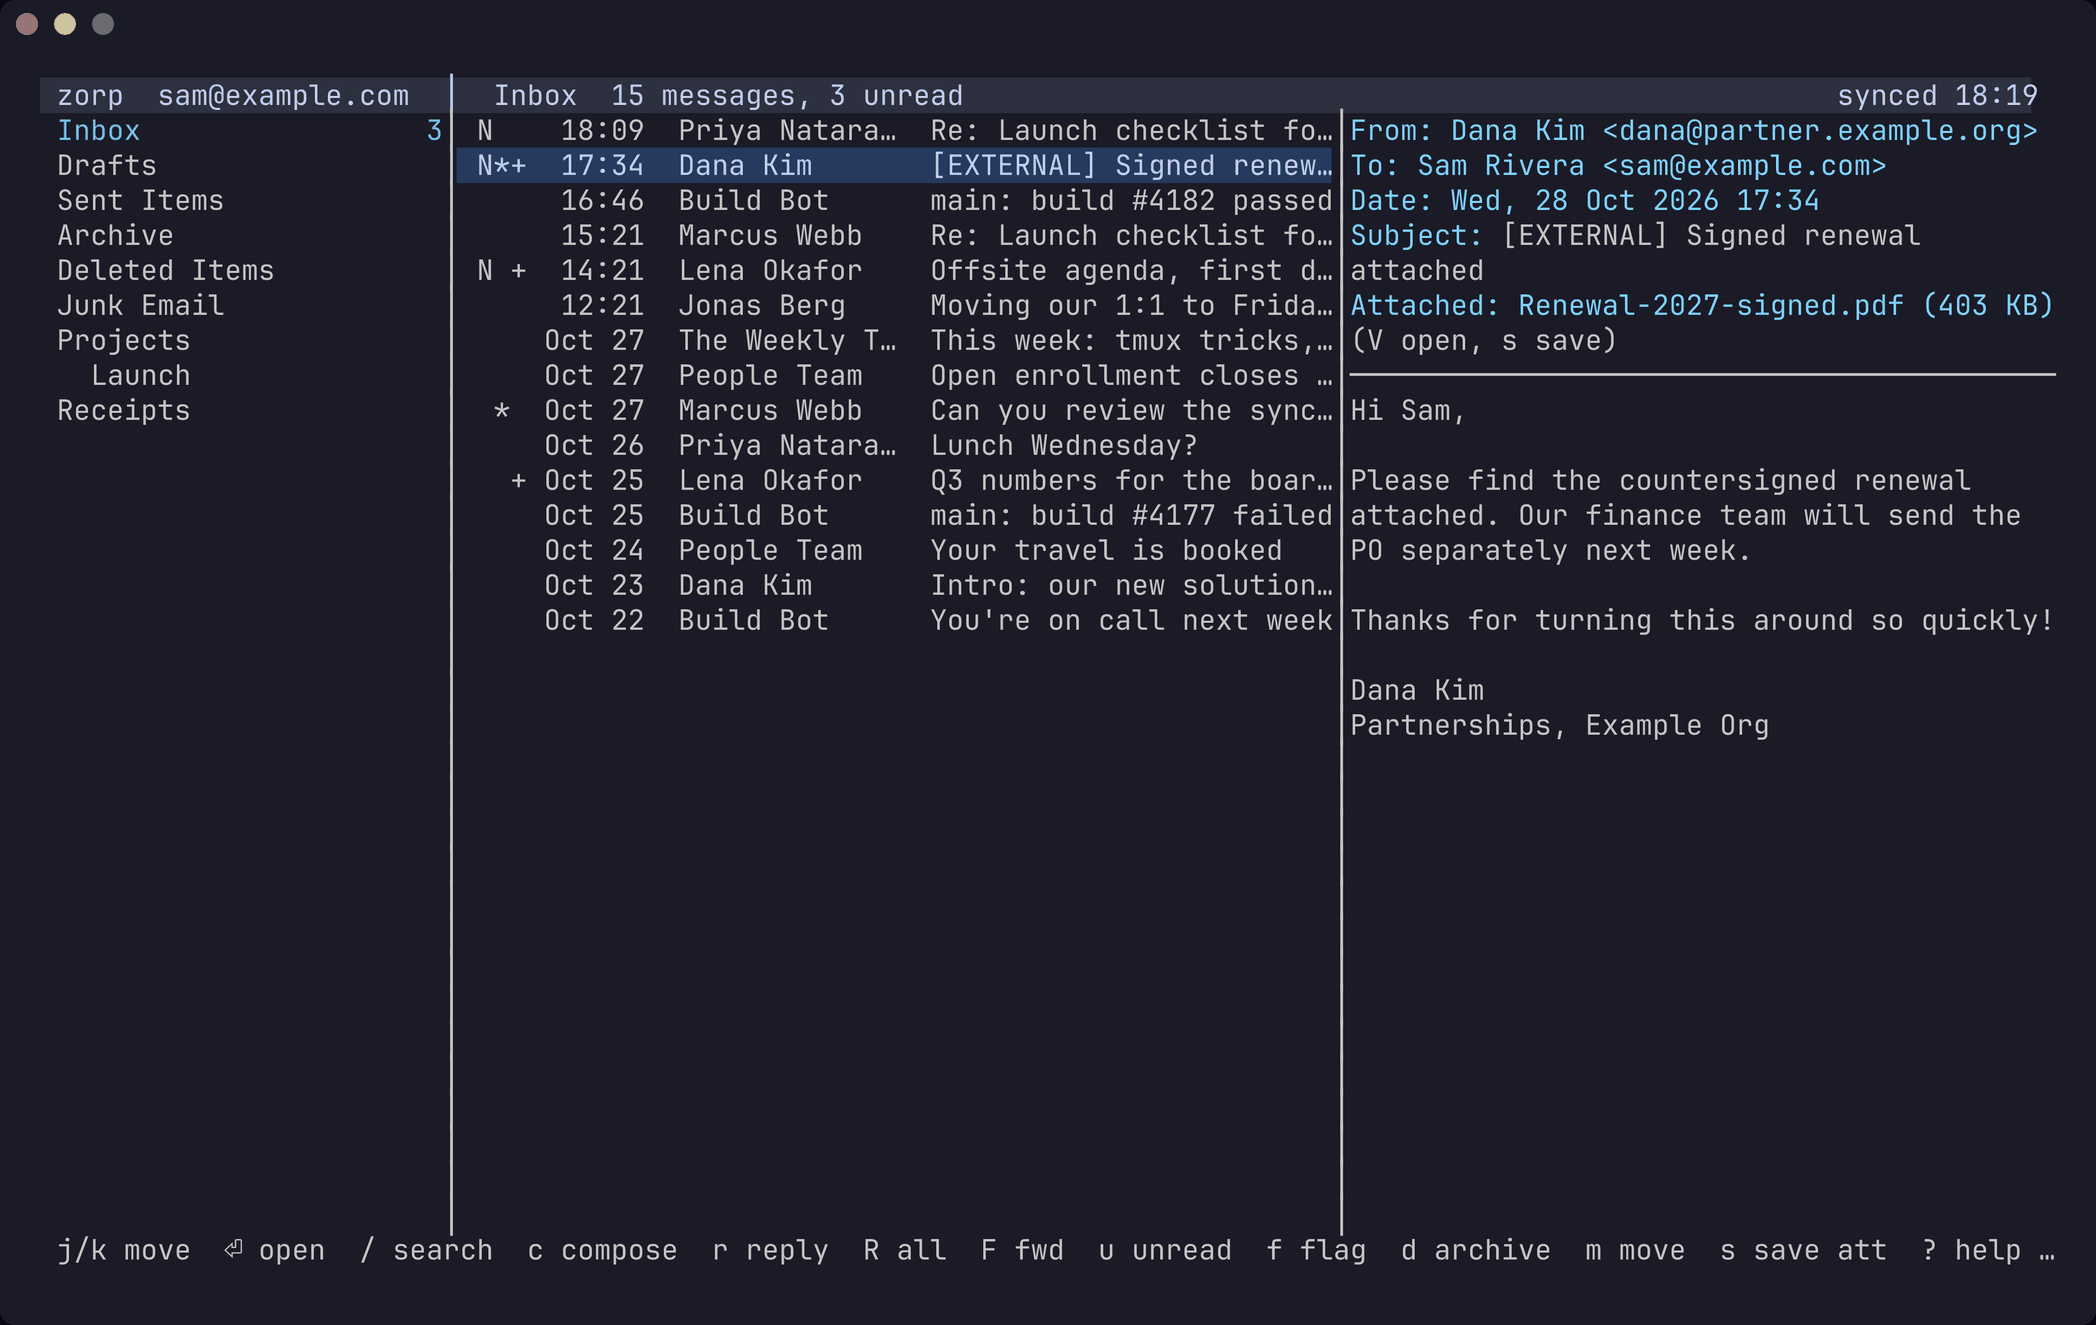
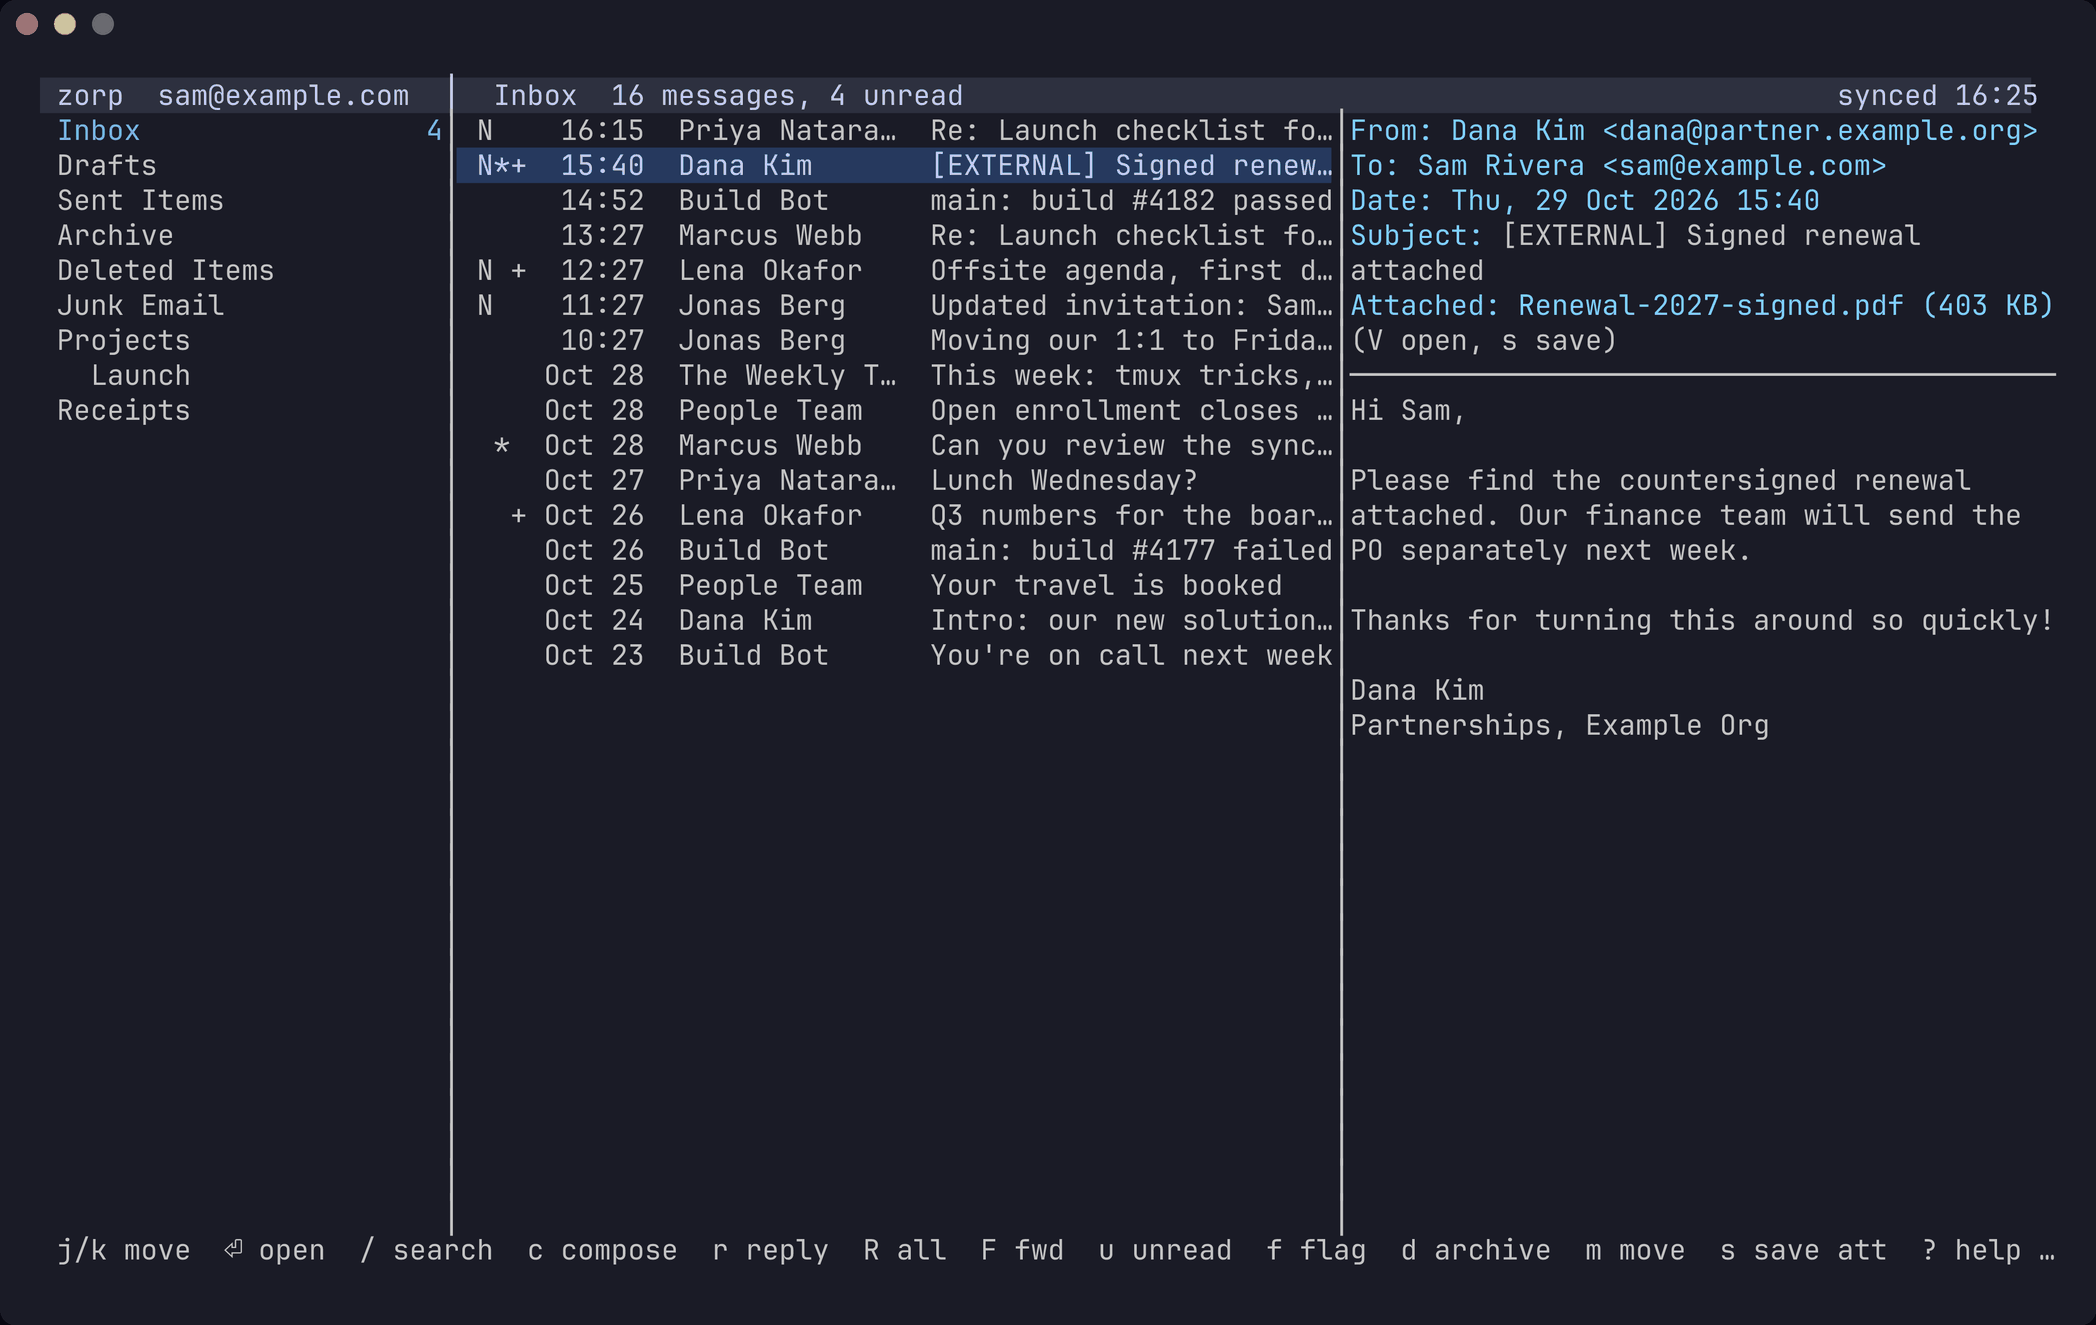
Meeting buttons in the preview: Accept, Tentative, Decline, Join, Remove
With the mouse on, an invite's preview has a row of buttons under its
headers. The answer already given is ticked. Answering in a way that
tells the organizer goes through the comment prompt first, so a stray
click never sends mail. The demo has an invite now, and the README a
screenshot of it.

Claude-Session: https://claude.ai/code/session_011pj7mesgMnUBaZC8MRbrVZ

diff --git a/scripts/demo/main.go b/scripts/demo/main.go
@@ -52,6 +52,8 @@ func main() {
 			return ipc.Status{State: ipc.StateIdle, Account: me, LastSync: started.Unix(), PID: os.Getpid()}, nil
 		case ipc.MethodMutate:
 			return ipc.MutateResult{}, nil
+		case ipc.MethodMeeting:
+			return ipc.MeetingInfo{Found: true, EventID: "e1", Response: "tentativelyAccepted", Organizer: false, JoinURL: "https://teams.example.com/l/meetup-join/1on1"}, nil
 		}
 		return struct{}{}, nil
 	}, slog.Default())
@@ -73,6 +75,7 @@ type msg struct {
 	attach  []store.Attachment
 	html    string
 	text    string
+	meeting *store.Meeting
 }
 
 var (
@@ -86,6 +89,18 @@ var (
 	news   = store.Address{Name: "The Weekly Terminal", Addr: "editor@newsletter.example.net"}
 	cal    = store.Address{Name: "Jonas Berg", Addr: "jonas@example.com"}
 )
+
+// meetingAt puts a meeting on the coming Friday at 10.
+func meetingAt(mt *store.Meeting, now time.Time) *store.Meeting {
+	if mt == nil {
+		return nil
+	}
+	day := now.AddDate(0, 0, (int(time.Friday)-int(now.Weekday())+7)%7)
+	out := *mt
+	out.Start = time.Date(day.Year(), day.Month(), day.Day(), 10, 0, 0, 0, time.Local)
+	out.End = out.Start.Add(30 * time.Minute)
+	return &out
+}
 
 func pdf(name string, size int64) []store.Attachment {
 	return []store.Attachment{{GraphID: name, Name: name, ContentType: "application/pdf", Kind: "file", Size: size}}
@@ -111,6 +126,9 @@ var mail = []msg{
 	{folder: "inbox", conv: "offsite", from: lena, to: []store.Address{sam}, subject: "Offsite agenda, first draft", ago: 4 * time.Hour,
 		attach: []store.Attachment{{GraphID: "a1", Name: "offsite-agenda.docx", ContentType: "application/vnd.openxmlformats-officedocument.wordprocessingml.document", Kind: "file", Size: 88_211}, {GraphID: "a2", Name: "venue-map.png", ContentType: "image/png", Kind: "file", Size: 1_204_551}},
 		html:   `<p>Hey Sam — first pass at the agenda is attached. The big open question is whether we do the roadmap session on day one or day two.</p><p>Lena</p>`},
+	{folder: "inbox", conv: "1on1", from: cal, to: []store.Address{sam}, subject: "Updated invitation: Sam / Jonas 1:1", ago: 5 * time.Hour,
+		meeting: &store.Meeting{Kind: store.MeetingRequest, Location: "Microsoft Teams Meeting", ResponseRequested: true, Recurring: true},
+		text:    "Moved to Fridays at 10, same link. Jonas"},
 	{folder: "inbox", conv: "1on1", from: cal, to: []store.Address{sam}, subject: "Moving our 1:1 to Friday?", ago: 6 * time.Hour, read: true,
 		text: "Something came up Thursday afternoon. Could we do Friday at 10 instead? Same link.\n\nJonas"},
 	{folder: "inbox", conv: "news", from: news, to: []store.Address{sam}, subject: "This week: tmux tricks, Kitty graphics, and a tiny Forth", ago: 20 * time.Hour, read: true,
@@ -201,6 +219,7 @@ func seed(ctx context.Context, path string, now time.Time) error {
 			HasAttachments: len(m.attach) > 0,
 			Importance:     "normal",
 			BodyPreview:    preview,
+			Meeting:        meetingAt(m.meeting, now),
 		})
 	}
 	for folder, b := range batches {

diff --git a/internal/tui/buttons.go b/internal/tui/buttons.go
@@ -1,0 +1,110 @@
+package tui
+
+import (
+	"strings"
+
+	tea "charm.land/bubbletea/v2"
+	"github.com/charmbracelet/x/ansi"
+)
+
+// Buttons in the preview: a row of them under the headers, clicked with
+// the mouse. Each does what a key already does.
+
+type button struct {
+	label  string
+	active bool // the current state, e.g. the answer already given
+	press  func() tea.Cmd
+	x0, x1 int // columns it covers, [x0, x1)
+}
+
+// buttonRow is a row of buttons on one line of the preview's content.
+type buttonRow struct {
+	line    int
+	buttons []button
+}
+
+const buttonGap = 1
+
+// layoutButtons places buttons side by side on content line line.
+func layoutButtons(line int, bs []button) buttonRow {
+	x := 0
+	for i := range bs {
+		w := ansi.StringWidth(bs[i].text())
+		bs[i].x0, bs[i].x1 = x, x+w
+		x += w + buttonGap
+	}
+	return buttonRow{line: line, buttons: bs}
+}
+
+func (b button) text() string {
+	if b.active {
+		return " ✓ " + b.label + " "
+	}
+	return " " + b.label + " "
+}
+
+func (r buttonRow) render() string {
+	parts := make([]string, len(r.buttons))
+	for i, b := range r.buttons {
+		style := styleCursorBg
+		if b.active {
+			style = styleCursor
+		}
+		parts[i] = style.Render(b.text())
+	}
+	return strings.Join(parts, strings.Repeat(" ", buttonGap))
+}
+
+// at is the button at column x of content line line.
+func (r buttonRow) at(line, x int) (button, bool) {
+	if line != r.line {
+		return button{}, false
+	}
+	for _, b := range r.buttons {
+		if x >= b.x0 && x < b.x1 {
+			return b, true
+		}
+	}
+	return button{}, false
+}
+
+// clickButton presses the preview button at screen cell x, y, if there
+// is one there.
+func (m *Model) clickButton(x, y int) (tea.Cmd, bool) {
+	if len(m.buttons.buttons) == 0 || m.help || m.picker != nil || m.confirm != nil || m.prompt != nil || m.composing != nil {
+		return nil, false
+	}
+	g := m.geom()
+	var x0, y0 int
+	switch {
+	case m.reading:
+		x0, y0 = 0, 1
+	case g.previewH == 0:
+		return nil, false
+	case g.previewOnRight:
+		x0, y0 = g.listW+1, 1
+		if g.folderW > 0 {
+			x0 += g.folderW + 1
+		}
+		if x < x0 {
+			return nil, false
+		}
+	default:
+		x0, y0 = 0, 1+g.listH+1
+		if g.folderW > 0 {
+			x0 = g.folderW + 1
+		}
+		if y < y0 || x < x0 {
+			return nil, false
+		}
+	}
+	if y < y0 || y >= y0+m.preview.Height() {
+		return nil, false
+	}
+	b, ok := m.buttons.at(y-y0+m.preview.YOffset(), x-x0)
+	if !ok {
+		return nil, false
+	}
+	m.focus = panePreview
+	return b.press(), true
+}

diff --git a/internal/tui/meeting.go b/internal/tui/meeting.go
@@ -169,6 +169,39 @@ func (m *Model) meetingFields(cur store.Message) [][2]string {
 	return fields
 }
 
+// meetingButtons are the preview's buttons for a meeting message: answer
+// it, remove it once cancelled, join it. Only with the mouse on, and once
+// the calendar has said how the meeting stands.
+func (m *Model) meetingButtons(cur store.Message) []button {
+	msg, ok := m.meetingOf(cur)
+	if !ok || !m.cfg.UI.Mouse || !answerable(msg.Meeting) || m.meeting == nil || m.meeting.forID != msg.GraphID || !m.meeting.known || m.meeting.err != "" {
+		return nil
+	}
+	info := m.meeting.info
+	var bs []button
+	switch {
+	case !info.Found:
+	case msg.Meeting.Kind == store.MeetingCancelled || info.Cancelled:
+		bs = append(bs, button{label: "Remove from calendar", press: m.meetingKey})
+	case !info.Organizer:
+		for _, a := range []struct{ answer, label, response string }{
+			{ipc.AnswerAccept, "Accept", "accepted"},
+			{ipc.AnswerTentative, "Tentative", "tentativelyAccepted"},
+			{ipc.AnswerDecline, "Decline", "declined"},
+		} {
+			bs = append(bs, button{label: a.label, active: info.Response == a.response, press: func() tea.Cmd {
+				// Telling the organizer goes through the comment prompt, so
+				// it's never one click; I answers without telling them.
+				return m.answerPicked(&picker{graphID: msg.GraphID}, choice{label: a.label, answer: a.answer, send: msg.Meeting.ResponseRequested})
+			}})
+		}
+	}
+	if url := info.JoinURL; url != "" {
+		bs = append(bs, button{label: "Join", press: func() tea.Cmd { return m.openURL(url) }})
+	}
+	return bs
+}
+
 func answerText(response string) string {
 	switch response {
 	case "accepted":
@@ -302,7 +335,11 @@ func (m *Model) answerPicked(p *picker, c choice) tea.Cmd {
 		leave()
 		return m.respond(p.graphID, p.eventID, c.answer, "", false)
 	}
-	m.openTextPrompt("Comment: ", "optional note to the organizer · Enter sends · Esc cancels", func(text string) tea.Cmd {
+	prompt := "Comment: "
+	if c.label != "" {
+		prompt = c.label + ", comment: "
+	}
+	m.openTextPrompt(prompt, "optional note to the organizer · Enter sends · Esc cancels", func(text string) tea.Cmd {
 		leave()
 		return m.respond(p.graphID, p.eventID, c.answer, text, true)
 	})

diff --git a/internal/tui/meeting_test.go b/internal/tui/meeting_test.go
@@ -108,3 +108,55 @@ func TestInviteClashes(t *testing.T) {
 		t.Errorf("clashes = %q", got)
 	}
 }
+
+func TestInviteButtons(t *testing.T) {
+	m, id := withInvite(t, store.MeetingRequest)
+	m.cfg.UI.Mouse = true
+	m.Update(meetingLoadedMsg{seq: m.bodySeq, id: id, info: ipc.MeetingInfo{Found: true, Response: "tentativelyAccepted", JoinURL: "https://teams.example/j"}})
+	var labels []string
+	for _, b := range m.buttons.buttons {
+		labels = append(labels, b.text())
+	}
+	if got := strings.Join(labels, "|"); got != " Accept | ✓ Tentative | Decline | Join " {
+		t.Fatalf("buttons = %q", got)
+	}
+	g := m.geom()
+	if !g.previewOnRight {
+		t.Fatal("test expects the preview on the right")
+	}
+	x0 := g.folderW + 1 + g.listW + 1
+	click := func(x int) tea.Cmd {
+		return m.handleMouse(tea.MouseClickMsg{X: x, Y: 1 + m.buttons.line, Button: tea.MouseLeft})
+	}
+	// The gap between buttons does nothing.
+	click(x0 + m.buttons.buttons[0].x1)
+	if m.prompt != nil {
+		t.Fatal("clicking between buttons shouldn't press one")
+	}
+	// Accept tells the organizer, so it asks for a comment first.
+	click(x0 + m.buttons.buttons[0].x0 + 2)
+	if m.prompt == nil || !strings.HasPrefix(m.prompt.Prompt, "Accept") {
+		t.Fatal("Accept should ask for a comment")
+	}
+	if cmd := submit(m); cmd == nil || m.leaving != id {
+		t.Fatalf("enter should send the answer (leaving %q)", m.leaving)
+	}
+
+	// A cancelled meeting offers removal.
+	m.Update(meetingLoadedMsg{seq: m.bodySeq, id: id, info: ipc.MeetingInfo{Found: true, Cancelled: true}})
+	if len(m.buttons.buttons) != 1 || m.buttons.buttons[0].label != "Remove from calendar" {
+		t.Fatalf("buttons = %+v", m.buttons.buttons)
+	}
+	click(x0 + 1)
+	if m.confirm == nil || !strings.Contains(m.confirm.prompt, "Remove the cancelled meeting") {
+		t.Fatalf("confirm = %+v", m.confirm)
+	}
+
+	// No buttons without the mouse: the keys still work.
+	m.confirm = nil
+	m.cfg.UI.Mouse = false
+	m.refreshPreview(false)
+	if len(m.buttons.buttons) != 0 {
+		t.Error("buttons shown with the mouse off")
+	}
+}

diff --git a/internal/tui/view.go b/internal/tui/view.go
@@ -97,6 +97,7 @@ func (m *Model) ensureVisible() {
 }
 
 func (m *Model) previewContent(w int) string {
+	m.buttons = buttonRow{}
 	msg, ok := m.currentMessage()
 	if !ok {
 		return ""
@@ -130,6 +131,11 @@ func (m *Model) previewContent(w int) string {
 	}
 	for _, f := range m.meetingFields(msg) {
 		field(f[0], f[1])
+	}
+	if bs := m.meetingButtons(msg); len(bs) > 0 {
+		m.buttons = layoutButtons(strings.Count(b.String(), "\n"), bs)
+		b.WriteString(ansi.Truncate(m.buttons.render(), w, ""))
+		b.WriteString("\n")
 	}
 	b.WriteString(styleFaint.Render(strings.Repeat("─", w)))
 	b.WriteString("\n")
@@ -517,7 +523,8 @@ func (m *Model) helpLines() []string {
 		"    w                 preview: right, bottom, hidden",
 		"    b                 show/hide folder pane",
 		"    + / -             start / stop syncing the folder",
-		"    mouse             click to select, wheel to scroll, drag dividers to resize",
+		"    mouse             click to select, wheel to scroll, drag dividers to resize,",
+		"                      click a meeting's buttons to answer or join it",
 		"                      (Shift+drag selects text; ui.mouse = false turns it off)",
 		"    ctrl+r            sync now",
 		"    L                 log in again (when the session expired)",

diff --git a/internal/tui/model.go b/internal/tui/model.go
@@ -97,6 +97,7 @@ type Model struct {
 	threads    map[string][]store.Message // when threaded: each row's messages, newest first
 	conv       *conversation              // the whole conversation, in the reader
 	meeting    *meetingState              // the calendar's side of the previewed invite
+	buttons    buttonRow                  // clickable buttons in the preview
 	agenda     *agendaView                // the calendar (g c), when open
 	clock      func() time.Time           // for tests; nil means time.Now
 	promptDone func(string) tea.Cmd       // what Enter does in a prompt that isn't search

diff --git a/internal/tui/mouse.go b/internal/tui/mouse.go
@@ -200,6 +200,9 @@ func (m *Model) paneAt(x, y int) pane {
 }
 
 func (m *Model) click(x, y int) tea.Cmd {
+	if cmd, ok := m.clickButton(x, y); ok {
+		return cmd
+	}
 	if m.reading || m.help || m.picker != nil || y < 1 || y > m.height-2 {
 		return nil
 	}

diff --git a/README.md b/README.md
@@ -139,6 +139,9 @@ In the viewer, `s` saves the attachment and `o` opens it in its app. In the pick
 Exchange puts a new invite on your calendar as tentative by itself. Answering it, and taking a cancelled meeting off your calendar, is up to the mail client. In zorp, the preview of an invite shows when and where the meeting is, how you've answered so far, and the Teams link if it has one.
 
 - `I` on an invite: accept, tentative or decline, either telling the organizer (with an optional comment) or not. Telling the organizer sends them mail, so the send [guardrail](#safety-guardrails) applies.
+![An invite's preview, with buttons to answer it](docs/screenshots/meeting.png)
+
+- With the mouse on, the preview also has buttons: **Accept**, **Tentative** and **Decline** (the answer you gave is ticked), **Join** for the Teams link, and **Remove from calendar** on a cancelled meeting. A button that tells the organizer asks for the optional comment first, so one stray click never sends mail; `I` answers without telling them.
 - `I` on a cancellation: removes the meeting from your calendar. This sends nothing.
 - Afterwards the message is archived, like Outlook clears answered invites. Set `calendar.after_respond` to `"delete"` or `"keep"` to change that.
 - An invite that a later update replaced says it's out of date; answer the newer one.
